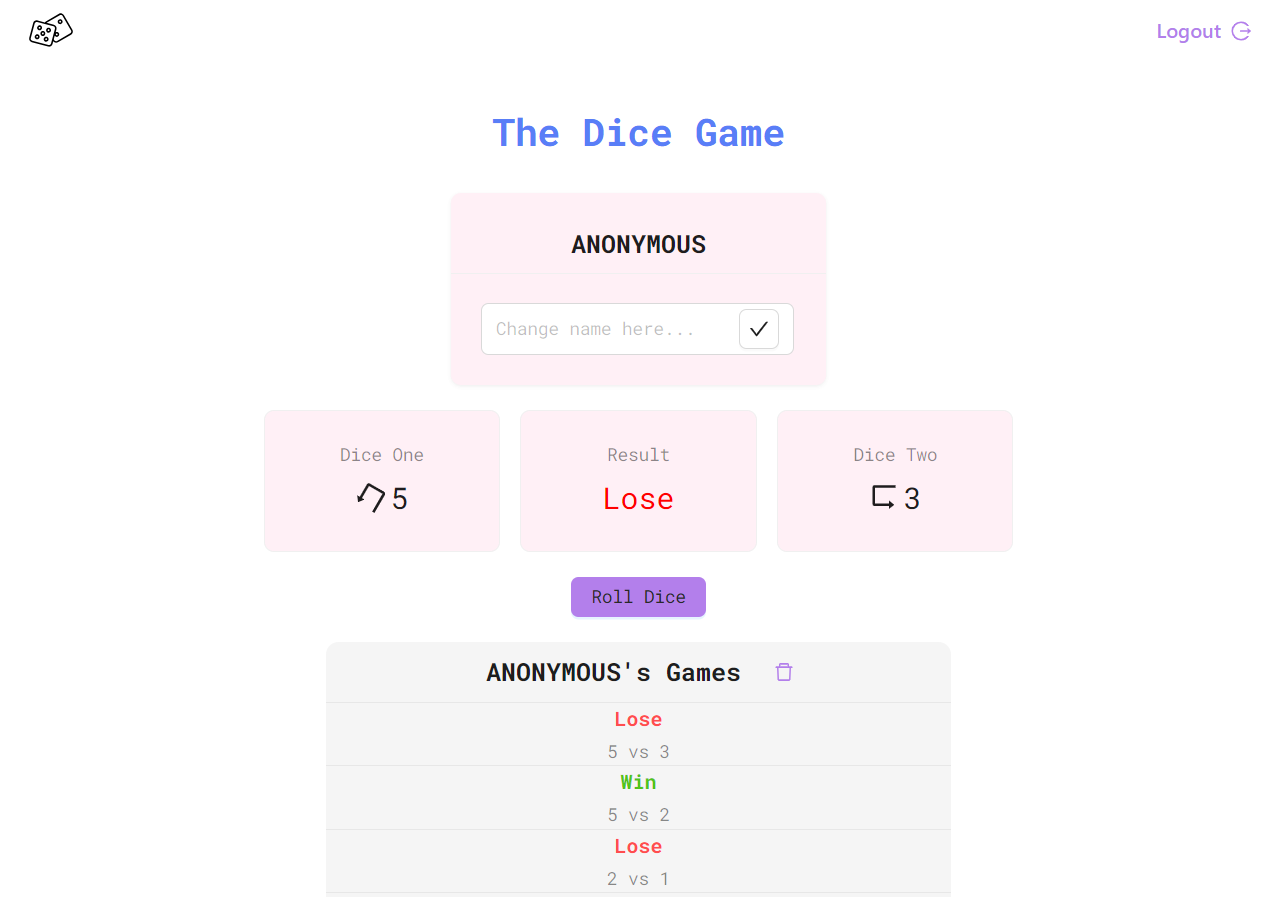
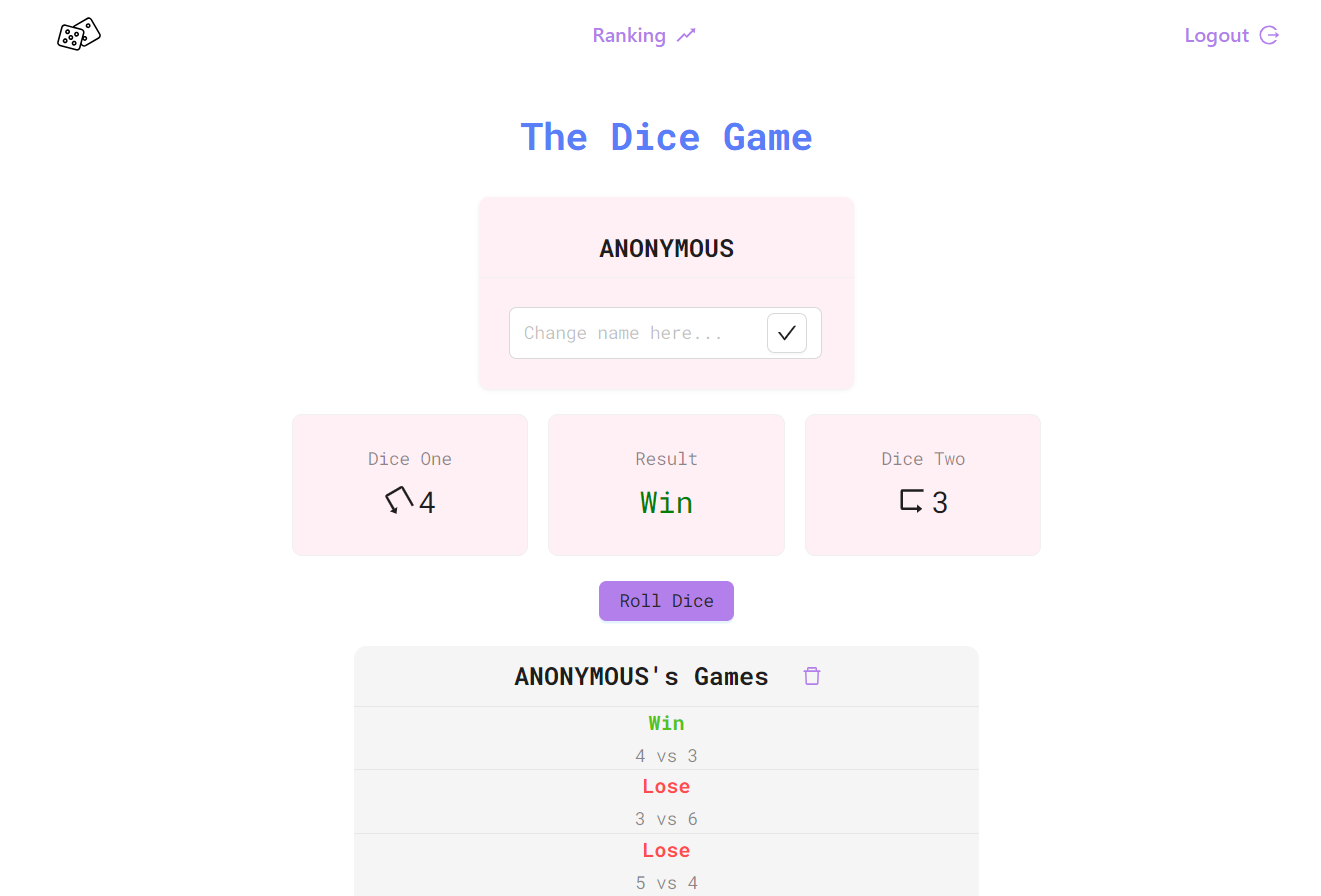
add RankingPage etc

diff --git a/client/src/pages/RankingPage.tsx b/client/src/pages/RankingPage.tsx
@@ -1,0 +1,137 @@
+import React, { useEffect, useState } from 'react';
+import { Card, Col, List, Row, Typography, Flex, Space } from 'antd';
+import axios from 'axios';
+import { Link } from 'react-router-dom';
+
+const { Title, Text } = Typography;
+
+interface Player {
+  id: string;
+  name: string;
+  email: string;
+  createdAt: Date;
+  successRate?: number;
+}
+
+const RankingPage: React.FC = () => {
+  const [players, setPlayers] = useState<Player[]>([]);
+  const [averageSuccessRate, setAverageSuccessRate] = useState<number>(0);
+  const [winner, setWinner] = useState<any>({});
+  const [loser, setLoser] = useState<any>({});
+  const [loading, setLoading] = useState<boolean>(true);
+
+  useEffect(() => {
+    fetchRankings();
+    fetchWinner();
+    fetchLoser();
+  }, []);
+
+  const fetchRankings = async () => {
+    setLoading(true);
+    try {
+      const response = await axios.get('http://localhost:3002/api/ranking', {
+        headers: {
+          Authorization: 'Bearer ' + localStorage.getItem('token'),
+        },
+      });
+      setPlayers(response.data.players);
+      setAverageSuccessRate(response.data.averageSuccessRate);
+      console.log('Rankings fetched successfully:', response.data);
+    } catch (error) {
+      console.error('Failed to fetch rankings:', error);
+    } finally {
+      setLoading(false);
+    }
+  };
+
+  const fetchWinner = async () => {
+    try {
+      const response = await axios.get(
+        'http://localhost:3002/api/ranking/winner',
+        {
+          headers: {
+            Authorization: 'Bearer ' + localStorage.getItem('token'),
+          },
+        }
+      );
+      setWinner(response.data);
+      console.log('Players fetched successfully:', response.data);
+    } catch (error) {
+      console.error('Failed to fetch winner:', error);
+    }
+  };
+
+  const fetchLoser = async () => {
+    try {
+      const response = await axios.get(
+        'http://localhost:3002/api/ranking/loser',
+        {
+          headers: {
+            Authorization: 'Bearer ' + localStorage.getItem('token'),
+          },
+        }
+      );
+      setLoser(response.data);
+      console.log('Players fetched successfully:', response.data);
+    } catch (error) {
+      console.error('Failed to fetch loser:', error);
+    }
+  };
+
+  return (
+    <div style={{ padding: '20px', maxWidth: '800px', margin: '0 auto' }}>
+      <Flex style={{ margin: 20 }} justify="center" align="center" gap="large">
+        <Link style={{ color: '#B37FEB' }} to="/">
+          Back to home
+        </Link>
+        <Title style={{ margin: 0 }} level={3}>
+          Player Rankings
+        </Title>
+      </Flex>
+      <Text style={{ display: 'block', marginBottom: 20 }}>
+        Overall Average Success Rate: {averageSuccessRate}%
+      </Text>
+      <Row gutter={16}>
+        <Col span={12}>
+          <Card title="The Best Player" bordered={false}>
+            {winner ? (
+              <Space direction="vertical">
+                <Text strong>{winner.name}</Text>
+                <Text>Success Rate: {winner.successRate}%</Text>
+              </Space>
+            ) : (
+              <Text>Loading...</Text>
+            )}
+          </Card>
+        </Col>
+        <Col span={12}>
+          <Card title="The Worst Player" bordered={false}>
+            {loser ? (
+              <Space direction="vertical">
+                <Text strong>{loser.name}</Text>
+                <Text>Success Rate: {loser.successRate}%</Text>
+              </Space>
+            ) : (
+              <Text>Loading...</Text>
+            )}
+          </Card>
+        </Col>
+      </Row>
+      <List
+        loading={loading}
+        itemLayout="horizontal"
+        dataSource={players}
+        renderItem={player => (
+          <List.Item>
+            <List.Item.Meta
+              title={player.name}
+              description={`Success Rate: ${player.successRate}%`}
+            />
+          </List.Item>
+        )}
+      />
+    </div>
+  );
+};
+
+export default RankingPage;

diff --git a/server/src/application/services/rankingService.ts b/server/src/application/services/rankingService.ts
@@ -24,12 +24,12 @@ class RankingService {
   async getRankings(): Promise<any> {
     const players = await this.rankingRepository.getRankings();
     const sortedPlayers = players.sort((a, b) => b.successRate - a.successRate);
-    // const averageSuccessRate =
-    //   players.reduce((sum, player) => sum + player.successRate, 0) /
-    //   players.length;
+    const averageSuccessRate =
+      players.reduce((sum, player) => sum + player.successRate, 0) /
+      players.length;
     return {
       players: sortedPlayers,
-      averageSuccessRate: this.getAverageSuccessRate(),
+      averageSuccessRate: +averageSuccessRate.toFixed(2),
     };
   }
 
@@ -45,13 +45,13 @@ class RankingService {
     return players.sort((a, b) => b.successRate - a.successRate)[0] || null;
   }
 
-  async getAverageSuccessRate(): Promise<number> {
-    const players = await this.rankingRepository.getRankings();
-    const averageSuccessRate =
-      players.reduce((sum, player) => sum + player.successRate, 0) /
-      players.length;
-    return averageSuccessRate;
-  }
+  // async getAverageSuccessRate(): Promise<number> {
+  //   const players = await this.rankingRepository.getRankings();
+  //   const averageSuccessRate =
+  //     players.reduce((sum, player) => sum + player.successRate, 0) /
+  //     players.length;
+  //   return averageSuccessRate;
+  // }
 }
 
 export default RankingService;

diff --git a/client/src/components/Header.tsx b/client/src/components/Header.tsx
@@ -1,5 +1,5 @@
 import { Flex, Space, Layout, ConfigProvider } from 'antd';
-import { LogoutOutlined } from '@ant-design/icons';
+import { LogoutOutlined, RiseOutlined } from '@ant-design/icons';
 import { Link } from 'react-router-dom';
 import logo from '../assets/logo.svg';
 
@@ -26,6 +26,12 @@ const AppHeader = () => {
             },
           }}
         >
+          <Link style={{ color: '#B37FEB' }} to="/ranking">
+            <Space>
+              Ranking
+              <RiseOutlined />
+            </Space>
+          </Link>
           <Link onClick={handleButton} style={{ color: '#B37FEB' }} to="/login">
             <Space>
               Logout

diff --git a/client/src/App.tsx b/client/src/App.tsx
@@ -9,6 +9,7 @@ import AuthPage from './pages/AuthPage';
 import MainPage from './pages/MainPage';
 
 import './App.css';
+import RankingPage from './pages/RankingPage';
 
 const App: React.FC = () => {
   const isAuthenticated = !!localStorage.getItem('token');
@@ -21,6 +22,7 @@ const App: React.FC = () => {
           element={isAuthenticated ? <MainPage /> : <Navigate to="/login" />}
         />
         <Route path="/login" element={<AuthPage />} />
+        <Route path="/ranking" element={<RankingPage />} />
         <Route path="*" element={<Navigate to="/" />} />
       </Routes>
     </Router>

diff --git a/server/src/infrastructure/repositories/mongo/RankingRepository.ts b/server/src/infrastructure/repositories/mongo/RankingRepository.ts
@@ -14,7 +14,9 @@ class MongoRankingRepository implements IRankingRepository {
       email: player.email,
       password: player.password,
       createdAt: player.createdAt,
-      successRate: this.calculateSuccessRate(player.games as IGameDocument[]),
+      successRate: +this.calculateSuccessRate(
+        player.games as IGameDocument[]
+      ).toFixed(2),
     }));
   }
 

diff --git a/client/src/pages/AuthPage.tsx b/client/src/pages/AuthPage.tsx
@@ -40,6 +40,7 @@ const MainPage: React.FC = () => {
     } catch (error) {
       if (axios.isAxiosError(error) && error.response) {
         console.log('Login error:', error.response.data);
+        message.error(error.response.data.message);
       } else {
         console.log('Unexpected error:', error);
       }
